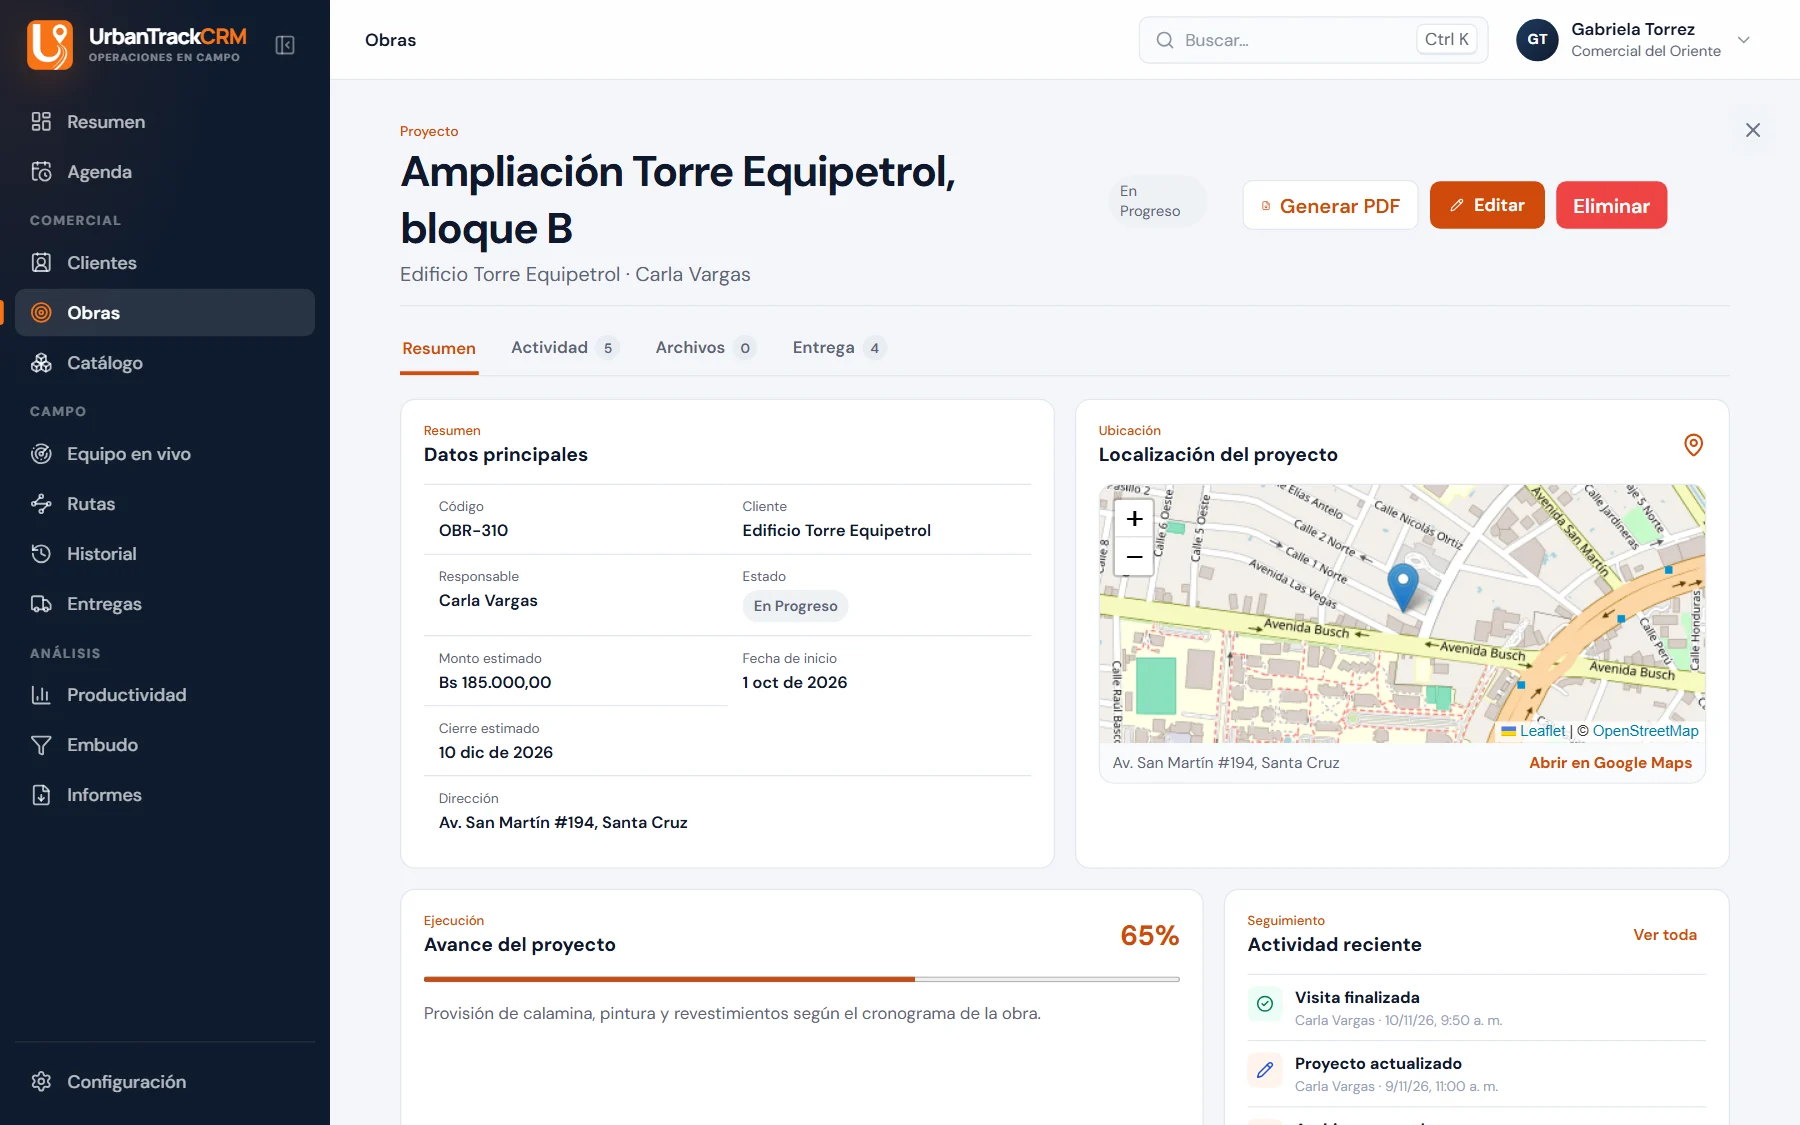
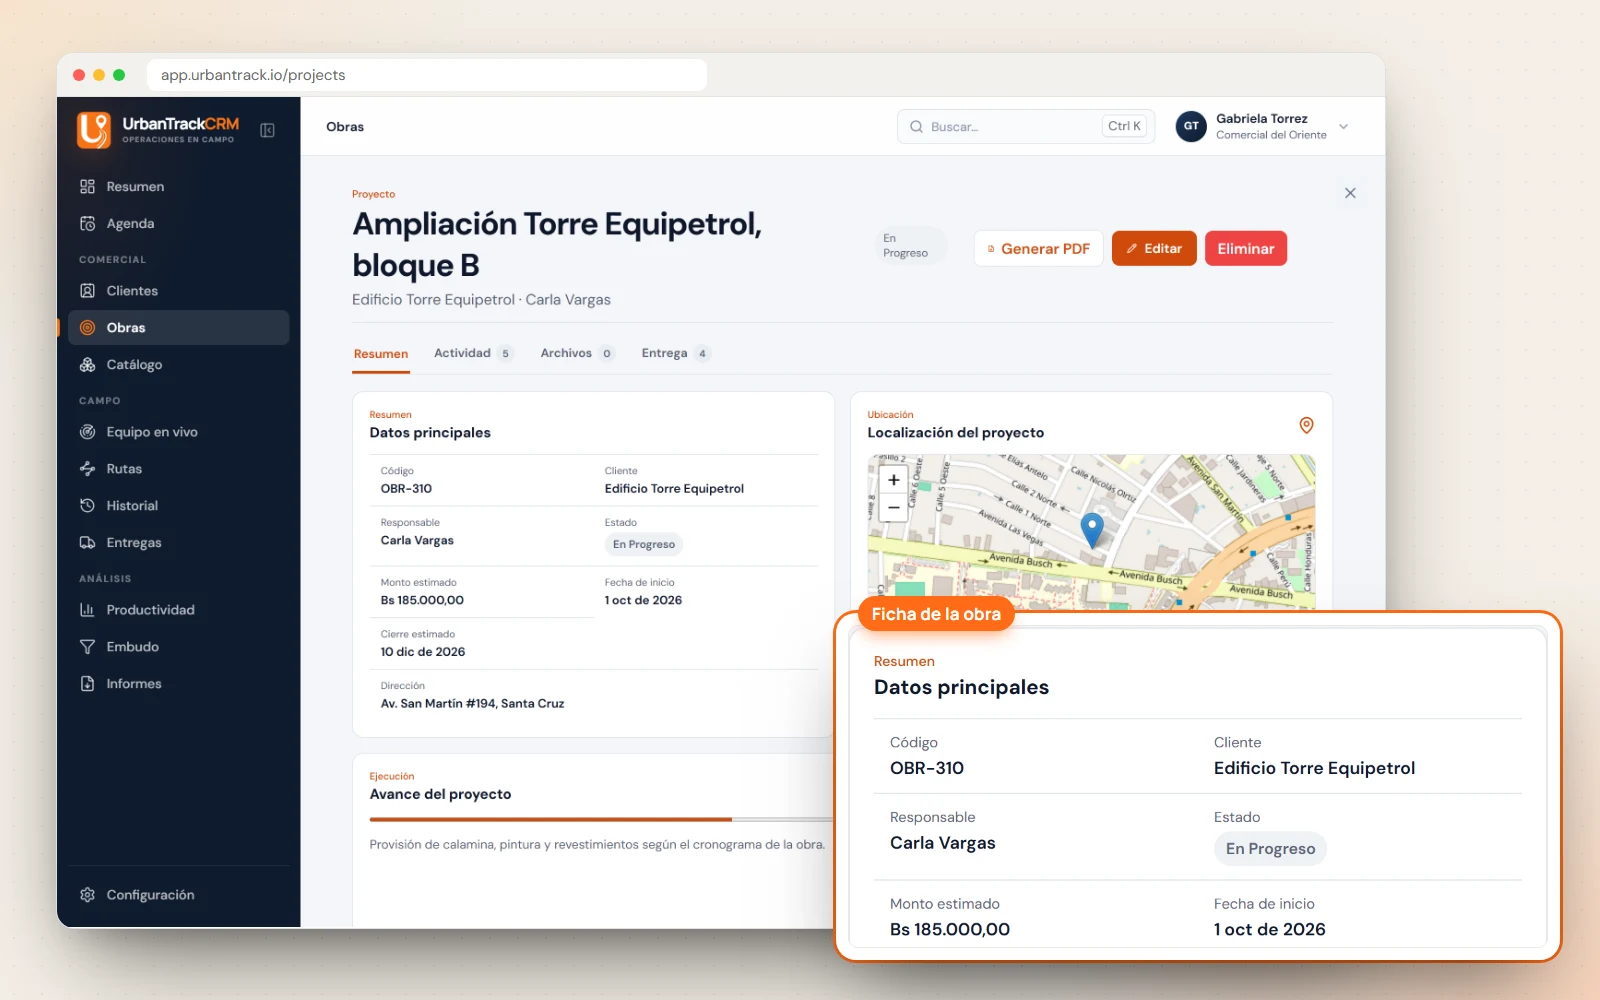
Escenas para el manual web y diapositivas para el video
Las capturas del manual web pasan a ser escenas: cada pantalla en su
ventana sobre el fondo de la marca, con una tarjeta que amplía el detalle
importante, y la columna de imágenes es más ancha. El proceso se divide en
capturar.mjs (pantallas crudas en alta resolución, sin versionar) y
componer.mjs, que arma también las diapositivas del video en 1920×1080,
con y sin texto, en UrbanTrack-material. Los textos y los detalles
ampliados están en escenas.mjs.

diff --git a/manual/web/index.html b/manual/web/index.html
@@ -100,7 +100,7 @@
           <div class="m-hero-stage">
             <div class="stage-ring ring-one" aria-hidden="true"></div>
             <div class="stage-ring ring-two" aria-hidden="true"></div>
-            <figure class="w-browser" style="position: relative; z-index: 2; width: 100%"><div class="w-bar" aria-hidden="true"><i></i><i></i><i></i><span>app.urbantrack.io</span></div><img class="w-shot" src="capturas/resumen.webp" width="1800" height="1125" alt="Pantalla Resumen con indicadores, mapa de obras y actividad reciente" fetchpriority="high" decoding="async" /></figure>
+            <img class="w-scene" style="position: relative; z-index: 2; width: 100%" src="capturas/resumen.webp" width="1600" height="1000" alt="Pantalla Resumen con indicadores, mapa de obras y actividad reciente" fetchpriority="high" decoding="async" />
             <div class="m-float m-float-top" aria-hidden="true">
               <i class="m-dot m-dot-green"></i> 4 trabajando ahora
             </div>
@@ -170,7 +170,7 @@
           </div>
           <div class="w-shots">
             <figure>
-              <div class="w-browser"><div class="w-bar" aria-hidden="true"><i></i><i></i><i></i><span>app.urbantrack.io</span></div><img class="w-shot" src="capturas/buscador.webp" width="1800" height="1125" alt="Búsqueda rápida abierta con Ctrl + K mostrando un cliente encontrado" loading="lazy" decoding="async" /></div>
+              <img class="w-scene" src="capturas/buscador.webp" width="1600" height="1000" alt="Búsqueda rápida abierta con Ctrl + K mostrando un cliente encontrado" loading="lazy" decoding="async" />
               <figcaption><b>Ctrl + K</b> · Ve a cualquier página o cliente.</figcaption>
             </figure>
           </div>
@@ -210,7 +210,7 @@
           </div>
           <div class="w-shots">
             <figure>
-              <div class="w-browser"><div class="w-bar" aria-hidden="true"><i></i><i></i><i></i><span>app.urbantrack.io/login</span></div><img class="w-shot" src="capturas/ingreso.webp" width="1800" height="1125" alt="Pantalla de ingreso con correo, contraseña y enlace para recuperarla" loading="lazy" decoding="async" /></div>
+              <img class="w-scene" src="capturas/ingreso.webp" width="1600" height="1000" alt="Pantalla de ingreso con correo, contraseña y enlace para recuperarla" loading="lazy" decoding="async" />
               <figcaption><b>Ingreso</b> · Correo, contraseña y recuperación.</figcaption>
             </figure>
           </div>
@@ -237,7 +237,7 @@
           </div>
           <div class="w-shots">
             <figure>
-              <div class="w-browser"><div class="w-bar" aria-hidden="true"><i></i><i></i><i></i><span>app.urbantrack.io</span></div><img class="w-shot" src="capturas/resumen.webp" width="1800" height="1125" alt="Pantalla Resumen con indicadores, mapa de obras y actividad reciente" loading="lazy" decoding="async" /></div>
+              <img class="w-scene" src="capturas/resumen.webp" width="1600" height="1000" alt="Pantalla Resumen con indicadores, mapa de obras y actividad reciente" loading="lazy" decoding="async" />
               <figcaption><b>Resumen</b> · El estado del equipo al abrir la plataforma.</figcaption>
             </figure>
           </div>
@@ -271,7 +271,7 @@
           </div>
           <div class="w-shots">
             <figure>
-              <div class="w-browser"><div class="w-bar" aria-hidden="true"><i></i><i></i><i></i><span>app.urbantrack.io/customers</span></div><img class="w-shot" src="capturas/clientes.webp" width="1800" height="1125" alt="Listado de clientes con vistas, búsqueda, filtros y acciones" loading="lazy" decoding="async" /></div>
+              <img class="w-scene" src="capturas/clientes.webp" width="1600" height="1000" alt="Listado de clientes con vistas, búsqueda, filtros y acciones" loading="lazy" decoding="async" />
               <figcaption><b>Clientes</b> · Vistas, búsqueda, filtros y acciones.</figcaption>
             </figure>
           </div>
@@ -310,7 +310,7 @@
           </div>
           <div class="w-shots">
             <figure>
-              <div class="w-browser"><div class="w-bar" aria-hidden="true"><i></i><i></i><i></i><span>app.urbantrack.io/projects</span></div><img class="w-shot" src="capturas/obra.webp" width="1800" height="1125" alt="Ficha de una obra con datos principales, ubicación, avance y actividad" loading="lazy" decoding="async" /></div>
+              <img class="w-scene" src="capturas/obra.webp" width="1600" height="1000" alt="Ficha de una obra con datos principales, ubicación, avance y actividad" loading="lazy" decoding="async" />
               <figcaption><b>Ficha de la obra</b> · Resumen, actividad, archivos y entrega.</figcaption>
             </figure>
           </div>
@@ -341,7 +341,7 @@
           </div>
           <div class="w-shots">
             <figure>
-              <div class="w-browser"><div class="w-bar" aria-hidden="true"><i></i><i></i><i></i><span>app.urbantrack.io/reminders</span></div><img class="w-shot" src="capturas/agenda.webp" width="1800" height="1125" alt="Agenda mensual con los recordatorios del equipo" loading="lazy" decoding="async" /></div>
+              <img class="w-scene" src="capturas/agenda.webp" width="1600" height="1000" alt="Agenda mensual con los recordatorios del equipo" loading="lazy" decoding="async" />
               <figcaption><b>Agenda</b> · Recordatorios del mes de todo el equipo.</figcaption>
             </figure>
           </div>
@@ -363,7 +363,7 @@
           </div>
           <div class="w-duo">
             <div>
-              <div class="w-browser"><div class="w-bar" aria-hidden="true"><i></i><i></i><i></i><span>app.urbantrack.io/operations/dashboard</span></div><img class="w-shot" src="capturas/equipo-en-vivo.webp" width="1800" height="1125" alt="Estado del equipo con responsables trabajando y su ubicación en el mapa" loading="lazy" decoding="async" /></div>
+              <img class="w-scene" src="capturas/equipo-en-vivo.webp" width="1600" height="1000" alt="Estado del equipo con responsables trabajando y su ubicación en el mapa" loading="lazy" decoding="async" />
               <h3>Estado del equipo</h3>
               <ul class="m-list">
                 <li><b>Resumen operativo:</b> cuántos están trabajando, cuántos finalizaron y cuántos tienen ubicación.</li>
@@ -373,7 +373,7 @@
               </ul>
             </div>
             <div>
-              <div class="w-browser"><div class="w-bar" aria-hidden="true"><i></i><i></i><i></i><span>app.urbantrack.io/operations/active</span></div><img class="w-shot" src="capturas/visitas-en-curso.webp" width="1800" height="1125" alt="Visitas en curso con la última posición de cada responsable" loading="lazy" decoding="async" /></div>
+              <img class="w-scene" src="capturas/visitas-en-curso.webp" width="1600" height="1000" alt="Visitas en curso con la última posición de cada responsable" loading="lazy" decoding="async" />
               <h3>Visitas en curso</h3>
               <ul class="m-list">
                 <li><b>Quién tiene jornada activa</b>, a qué hora empezó y su última ubicación.</li>
@@ -413,7 +413,7 @@
           </div>
           <div class="w-shots">
             <figure>
-              <div class="w-browser"><div class="w-bar" aria-hidden="true"><i></i><i></i><i></i><span>app.urbantrack.io/operations/routes</span></div><img class="w-shot" src="capturas/rutas.webp" width="1800" height="1125" alt="Planificación de la ruta del día con paradas numeradas en el mapa" loading="lazy" decoding="async" /></div>
+              <img class="w-scene" src="capturas/rutas.webp" width="1600" height="1000" alt="Planificación de la ruta del día con paradas numeradas en el mapa" loading="lazy" decoding="async" />
               <figcaption><b>Rutas</b> · Paradas del día y su orden en el mapa.</figcaption>
             </figure>
           </div>
@@ -446,7 +446,7 @@
           </div>
           <div class="w-shots">
             <figure>
-              <div class="w-browser"><div class="w-bar" aria-hidden="true"><i></i><i></i><i></i><span>app.urbantrack.io/operations/history</span></div><img class="w-shot" src="capturas/historial.webp" width="1800" height="1125" alt="Detalle de una jornada con el recorrido en el mapa, duración y visitas" loading="lazy" decoding="async" /></div>
+              <img class="w-scene" src="capturas/historial.webp" width="1600" height="1000" alt="Detalle de una jornada con el recorrido en el mapa, duración y visitas" loading="lazy" decoding="async" />
               <figcaption><b>Historial</b> · Jornadas, recorrido y visitas de cada día.</figcaption>
             </figure>
           </div>
@@ -484,7 +484,7 @@
           </div>
           <div class="w-shots">
             <figure>
-              <div class="w-browser"><div class="w-bar" aria-hidden="true"><i></i><i></i><i></i><span>app.urbantrack.io/deliveries</span></div><img class="w-shot" src="capturas/entrega.webp" width="1800" height="1125" alt="Detalle de una entrega con sucursal, fecha comprometida y avance de recepción" loading="lazy" decoding="async" /></div>
+              <img class="w-scene" src="capturas/entrega.webp" width="1600" height="1000" alt="Detalle de una entrega con sucursal, fecha comprometida y avance de recepción" loading="lazy" decoding="async" />
               <figcaption><b>Entrega</b> · Comprometido, recibido y pendiente.</figcaption>
             </figure>
           </div>
@@ -521,7 +521,7 @@
           </div>
           <div class="w-shots">
             <figure>
-              <div class="w-browser"><div class="w-bar" aria-hidden="true"><i></i><i></i><i></i><span>app.urbantrack.io/customers/import</span></div><img class="w-shot" src="capturas/carga-masiva.webp" width="1800" height="1125" alt="Carga masiva de clientes en tres pasos, empezando por subir el Excel" loading="lazy" decoding="async" /></div>
+              <img class="w-scene" src="capturas/carga-masiva.webp" width="1600" height="1000" alt="Carga masiva de clientes en tres pasos, empezando por subir el Excel" loading="lazy" decoding="async" />
               <figcaption><b>Carga masiva</b> · Tres pasos con validación por fila.</figcaption>
             </figure>
           </div>
@@ -543,17 +543,17 @@
           </div>
           <div class="m-cards">
             <article class="m-card">
-              <div class="w-browser" style="margin-bottom: 24px"><div class="w-bar" aria-hidden="true"><i></i><i></i><i></i><span>…/operations/productivity</span></div><img class="w-shot" src="capturas/productividad.webp" width="1800" height="1125" alt="Productividad comercial por responsable con comparación al período anterior" loading="lazy" decoding="async" /></div>
+              <img class="w-scene" style="margin-bottom: 24px" src="capturas/productividad.webp" width="1600" height="1000" alt="Productividad comercial por responsable con comparación al período anterior" loading="lazy" decoding="async" />
               <h3>Productividad</h3>
               <p>Por responsable y periodo: jornadas trabajadas, horas de jornada, clientes atendidos, obras cerradas y recordatorios cumplidos, a tiempo o vencidos.</p>
             </article>
             <article class="m-card">
-              <div class="w-browser" style="margin-bottom: 24px"><div class="w-bar" aria-hidden="true"><i></i><i></i><i></i><span>…/projects/pipeline</span></div><img class="w-shot" src="capturas/embudo.webp" width="1800" height="1125" alt="Embudo de obras agrupadas por etapa con montos estimados" loading="lazy" decoding="async" /></div>
+              <img class="w-scene" style="margin-bottom: 24px" src="capturas/embudo.webp" width="1600" height="1000" alt="Embudo de obras agrupadas por etapa con montos estimados" loading="lazy" decoding="async" />
               <h3>Embudo</h3>
               <p>Todas las obras por etapa, con su avance y fecha de cierre. Marca los cierres vencidos y se filtra por responsable.</p>
             </article>
             <article class="m-card">
-              <div class="w-browser" style="margin-bottom: 24px"><div class="w-bar" aria-hidden="true"><i></i><i></i><i></i><span>…/report-studio/generate</span></div><img class="w-shot" src="capturas/informes.webp" width="1800" height="1125" alt="Generar informe PDF eligiendo una plantilla" loading="lazy" decoding="async" /></div>
+              <img class="w-scene" style="margin-bottom: 24px" src="capturas/informes.webp" width="1600" height="1000" alt="Generar informe PDF eligiendo una plantilla" loading="lazy" decoding="async" />
               <h3>Informes PDF</h3>
               <p>En <b>Generar informe</b> elige una plantilla y el registro, y haz clic en <b>Generar PDF</b>. En <b>Plantillas</b> el administrador diseña la hoja A4 con textos, logos, fotos, tablas y campos, o parte de <b>Usar diseño de ejemplo</b>.</p>
             </article>
@@ -574,7 +574,7 @@
               que tu rol puede administrar.
             </p>
           </div>
-          <figure class="w-browser w-settings-shot"><div class="w-bar" aria-hidden="true"><i></i><i></i><i></i><span>app.urbantrack.io/admin/users</span></div><img class="w-shot" src="capturas/usuarios.webp" width="1800" height="1125" alt="Configuración con el menú lateral de páginas y el listado de usuarios con sus roles" loading="lazy" decoding="async" /></figure>
+          <img class="w-scene w-settings-shot" src="capturas/usuarios.webp" width="1600" height="1000" alt="Configuración con el menú lateral de páginas y el listado de usuarios con sus roles" loading="lazy" decoding="async" />
           <div class="m-cards w-cards-4">
             <article class="m-card">
               <div class="w-card-icon" aria-hidden="true">1</div>
@@ -627,7 +627,7 @@
           </div>
           <div class="w-shots">
             <figure>
-              <div class="w-browser"><div class="w-bar" aria-hidden="true"><i></i><i></i><i></i><span>app.urbantrack.io/support</span></div><img class="w-shot" src="capturas/soporte.webp" width="1800" height="1125" alt="Formulario de Ayuda y soporte con tipo de consulta, asunto, mensaje y adjuntos" loading="lazy" decoding="async" /></div>
+              <img class="w-scene" src="capturas/soporte.webp" width="1600" height="1000" alt="Formulario de Ayuda y soporte con tipo de consulta, asunto, mensaje y adjuntos" loading="lazy" decoding="async" />
               <figcaption><b>Ayuda y soporte</b> · Tipo, asunto, mensaje y adjuntos.</figcaption>
             </figure>
           </div>

diff --git a/manual/web/web.css b/manual/web/web.css
@@ -2,51 +2,35 @@
   Manual de la plataforma web.
   Se carga después de ../../styles.css y ../manual.css: reutiliza sus capítulos,
   pasos, notas y preguntas frecuentes. Lo propio de esta página usa el prefijo "w-":
-  sobre todo la ventana de navegador que enmarca cada captura de pantalla.
-  Las capturas están en capturas/ y se generan con datos de ejemplo (ver README).
+  sobre todo las escenas: cada pantalla de la app en su ventana, con un detalle
+  ampliado. Las escenas están en capturas/ y las arma
+  scripts/capturas-manual-web/componer.mjs con datos de ejemplo.
 */
 
-/* ---------- Browser window ---------- */
+/* ---------- Scenes ---------- */
 
-.w-browser {
-  overflow: hidden;
-  margin: 0;
-  border: 1px solid #d3d0c8;
-  border-radius: 16px;
-  background: #fff;
-  box-shadow: 0 30px 60px -30px rgba(21, 21, 21, 0.4);
-}
-.w-bar {
-  display: flex;
-  align-items: center;
-  gap: 6px;
-  padding: 9px 12px;
-  border-bottom: 1px solid #e6e3dc;
-  background: #f3f1ec;
-}
-.w-bar i {
-  width: 9px;
-  height: 9px;
-  border-radius: 50%;
-  background: #d9d5cc;
-}
-.w-bar span {
-  flex: 1;
-  margin-left: 8px;
-  padding: 4px 10px;
-  overflow: hidden;
-  border-radius: 7px;
-  background: #fff;
-  color: #777;
-  font-size: 10.5px;
-  white-space: nowrap;
-  text-overflow: ellipsis;
-}
-.w-shot {
+.w-scene {
   display: block;
   width: 100%;
   height: auto;
-  background: #f4f6f9;
+  border-radius: 20px;
+  background: #f4efe7;
+  box-shadow: 0 30px 60px -30px rgba(21, 21, 21, 0.45);
+}
+
+/* Wider image column than the mobile manual: the scenes carry more detail. */
+@media (min-width: 1061px) {
+  .m-chapter-grid {
+    grid-template-columns: minmax(0, 0.82fr) minmax(0, 1.18fr);
+    gap: 56px;
+  }
+  .m-chapter-grid.m-flip {
+    grid-template-columns: minmax(0, 1.18fr) minmax(0, 0.82fr);
+  }
+  .m-chapter-grid .w-shots {
+    position: sticky;
+    top: 104px;
+  }
 }
 
 /* Browser windows with their caption */
@@ -71,8 +55,7 @@
 }
 
 /* Dark band */
-.m-dark .w-browser {
-  border-color: #333;
+.m-dark .w-scene {
   box-shadow: 0 30px 60px -28px rgba(0, 0, 0, 0.9);
 }
 .w-duo {

diff --git a/README.md b/README.md
@@ -14,8 +14,8 @@ Sitio comercial estático de UrbanTrack, listo para publicar en GitHub Pages.
 - `robots.txt`, `sitemap.xml`: indexación en buscadores.
 - `privacy.html`: política de privacidad.
 - `manual/`: manual de usuario de la app móvil (`index.html`, `manual.css`, `manual.js` y las capturas en `pantallas/`). Usa `styles.css` para la cabecera, los botones y el pie.
-- `manual/web/`: manual de la plataforma web (`app.urbantrack.io`). Reutiliza `styles.css` y `../manual.css`; `web.css` enmarca en una ventana de navegador las capturas de `capturas/`.
-- `scripts/capturas-manual-web/`: vuelve a sacar esas capturas con la app web en local y una API simulada con datos de ejemplo (instrucciones al inicio de `capturar.mjs`).
+- `manual/web/`: manual de la plataforma web (`app.urbantrack.io`). Reutiliza `styles.css` y `../manual.css`; las imágenes de `capturas/` son escenas: cada pantalla en su ventana con un detalle ampliado.
+- `scripts/capturas-manual-web/`: genera esas imágenes con la app web en local y una API simulada con datos de ejemplo. `capturar.mjs` saca las pantallas crudas en `crudas/` (no se versiona) y `componer.mjs` arma las escenas de la web y las diapositivas del video (1920×1080, en `../UrbanTrack-material/video-plataforma-web/`; `--4k` para 3840×2160). Los textos y los detalles ampliados están en `escenas.mjs`.
 - `registro/`: solo redirige enlaces antiguos al registro de la aplicación.
 - `CNAME`: dominio personalizado.
 
